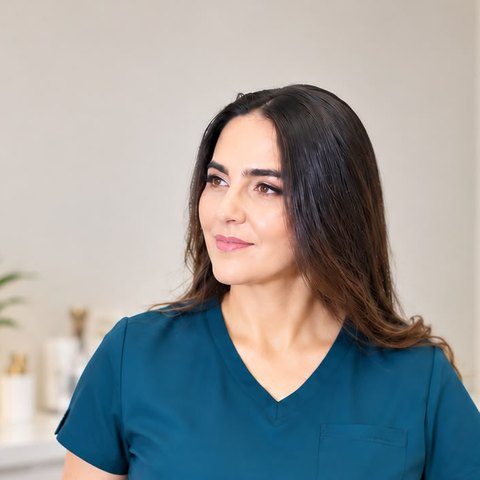
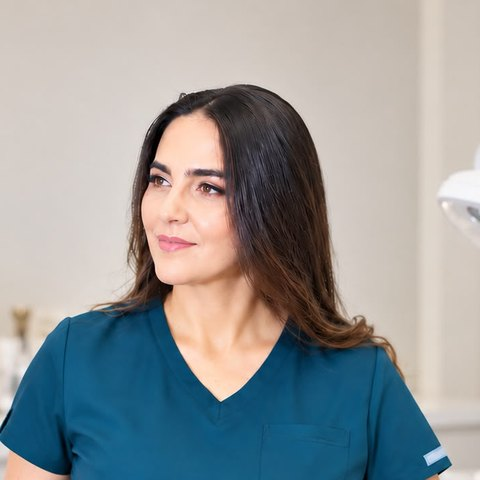
Equipo: centra la foto de periodoncia

diff --git a/js/config.js b/js/config.js
@@ -120,7 +120,7 @@ window.DB = {
      `cedula` es la cédula profesional; si está, se muestra bajo el área. */
   equipo: [
     { nombre: "Jorge Enrique Heres Reyes", area: "Esp. en Endodoncia", cedula: "13903465", foto: "/assets/img/equipo/endodoncia-jorge-heres.webp" },
-    { nombre: "Esp. en Periodoncia", area: "Salud de encías", cedula: "6450478", foto: "/assets/img/equipo/periodoncia.webp" },
+    { nombre: "Esp. en Periodoncia", area: "Salud de encías", cedula: "6450478", foto: "/assets/img/equipo/periodoncia.webp?v=2" },
     { nombre: "Dirección clínica",  area: "Estética y rehabilitación", foto: "" },
     { nombre: "Rehabilitación oral",area: "Implantes y prótesis",      foto: "" },
     { nombre: "Ortodoncia",         area: "Alineadores y brackets",    foto: "" }
